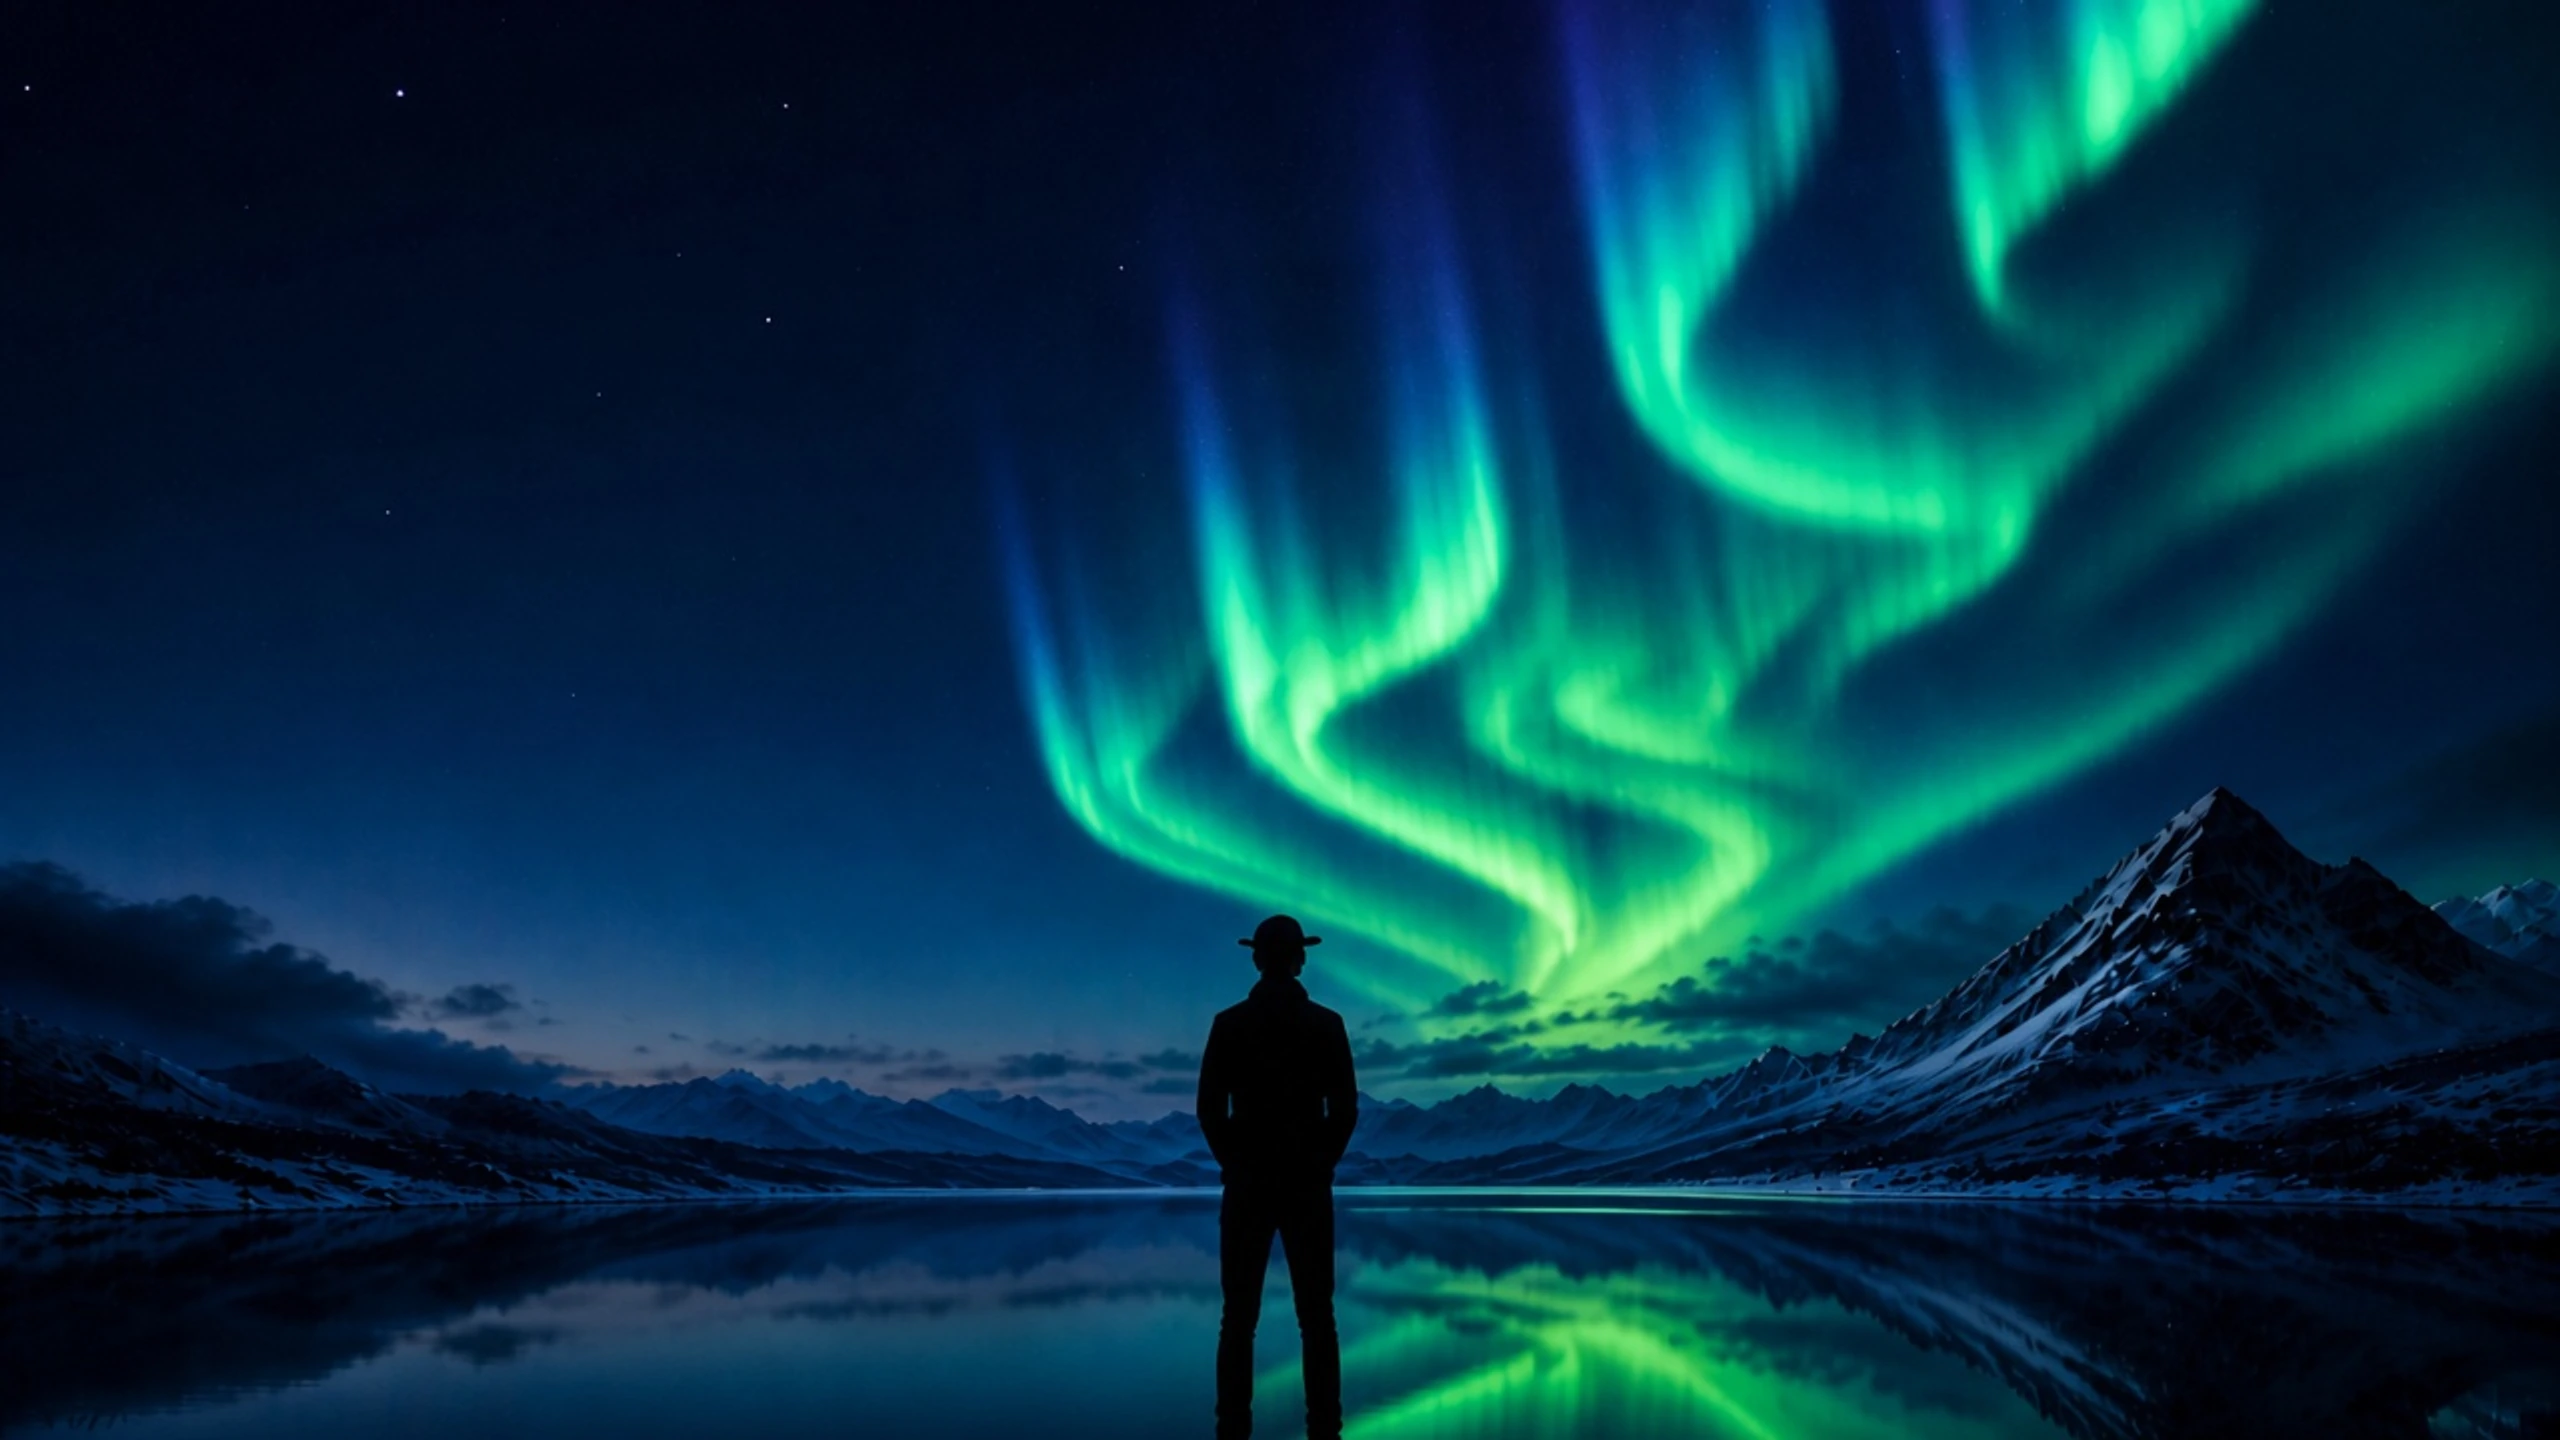
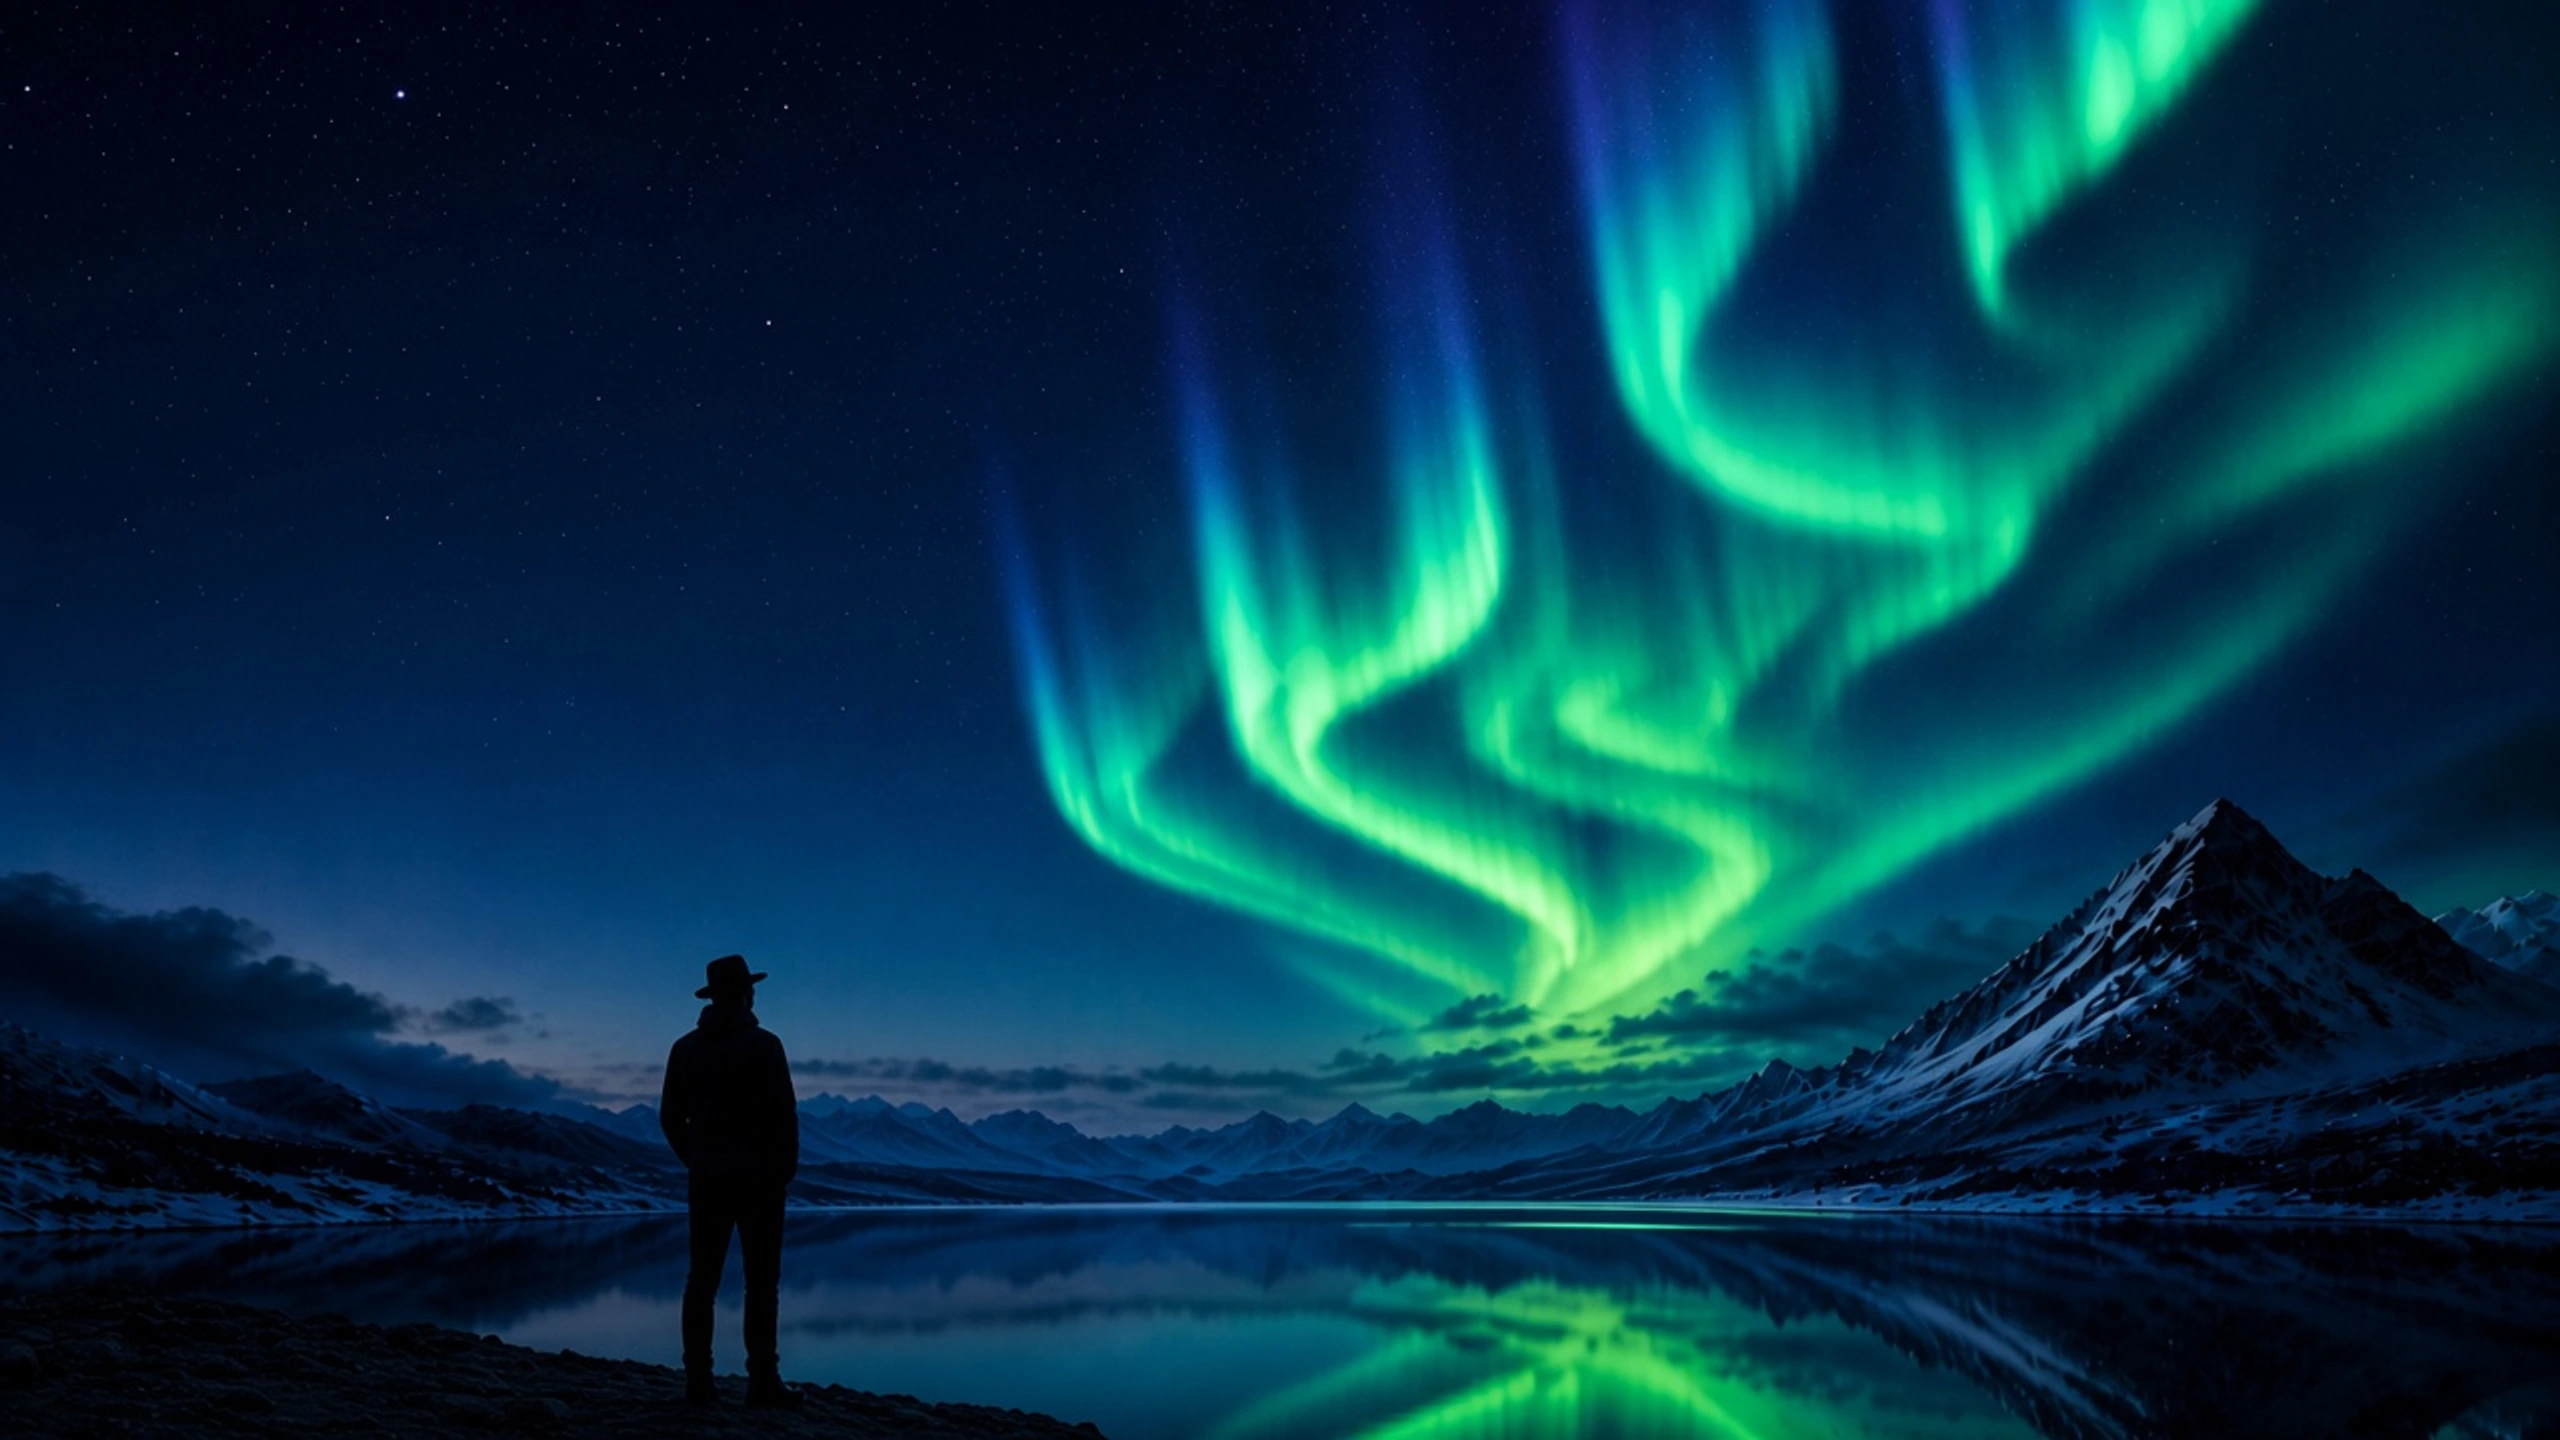
Update image source for home-aurora-4k.webp: Change the image reference in multiple components to a new version for improved visual consistency across the site.

diff --git a/src/components/home-aurora-effects.tsx b/src/components/home-aurora-effects.tsx
@@ -122,7 +122,7 @@ export const HomeAuroraEffects = () => {
 
 		const img = new Image();
 		img.decoding = 'async';
-		img.src = '/home-aurora-4k.webp?v=landscape-solo-1';
+		img.src = '/home-aurora-4k.webp?v=clean-solo-2026';
 
 		const reducedMotion = window.matchMedia(
 			'(prefers-reduced-motion: reduce)',

diff --git a/src/components/home-aurora-bg.tsx b/src/components/home-aurora-bg.tsx
@@ -7,7 +7,7 @@ export const HomeAuroraBg = () => (
 	>
 		<img
 			className='home-aurora-image'
-			src='/home-aurora-4k.webp?v=landscape-solo-1'
+			src='/home-aurora-4k.webp?v=clean-solo-2026'
 			alt=''
 			decoding='async'
 			fetchPriority='high'

diff --git a/index.html b/index.html
@@ -65,7 +65,7 @@
 		<link
 			rel="preload"
 			as="image"
-			href="/home-aurora-4k.webp?v=landscape-solo-1"
+			href="/home-aurora-4k.webp?v=clean-solo-2026"
 			type="image/webp"
 		/>
 
